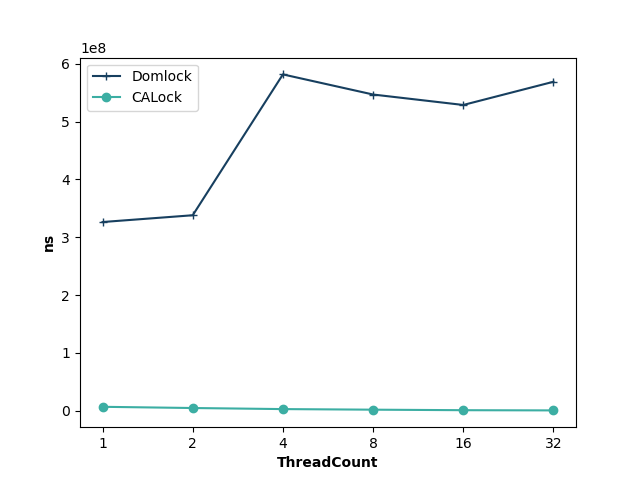
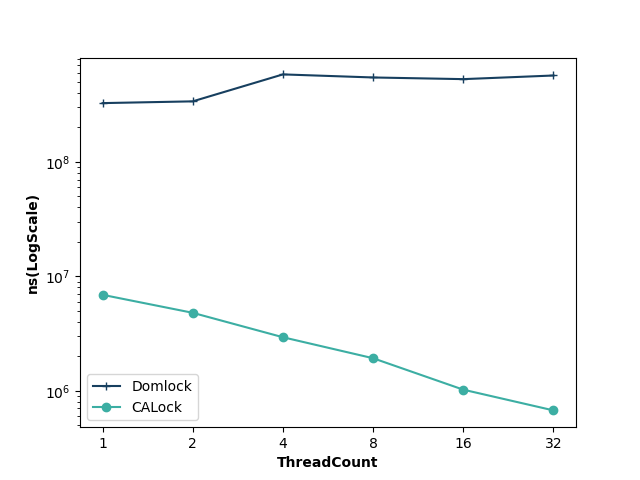
Save state for stress tests.

diff --git a/Performance Tests/Charts/Grid5000 Latest/graphImageGenerator.py b/Performance Tests/Charts/Grid5000 Latest/graphImageGenerator.py
@@ -55,9 +55,9 @@ plt.figure()
 plt.plot(df2['Domlock'], color='#173f5f', label='Domlock', marker='+')
 plt.plot(df2['CALock'], color='#3caea3', label='CALock', marker='o')
 plt.xlabel('ThreadCount', fontweight='bold')
-plt.ylabel('ns', fontweight='bold')
+plt.ylabel('ns(LogScale)', fontweight='bold')
 plt.xticks([0,1,2,3,4,5], ['1', '2', '4', '8', '16','32'])
-
+plt.yscale('log')
 # Create legend & Show graphic
 plt.legend()
 plt.savefig("./benchmarkCharts/"+sys.argv[1]+"Relabelling.png")
